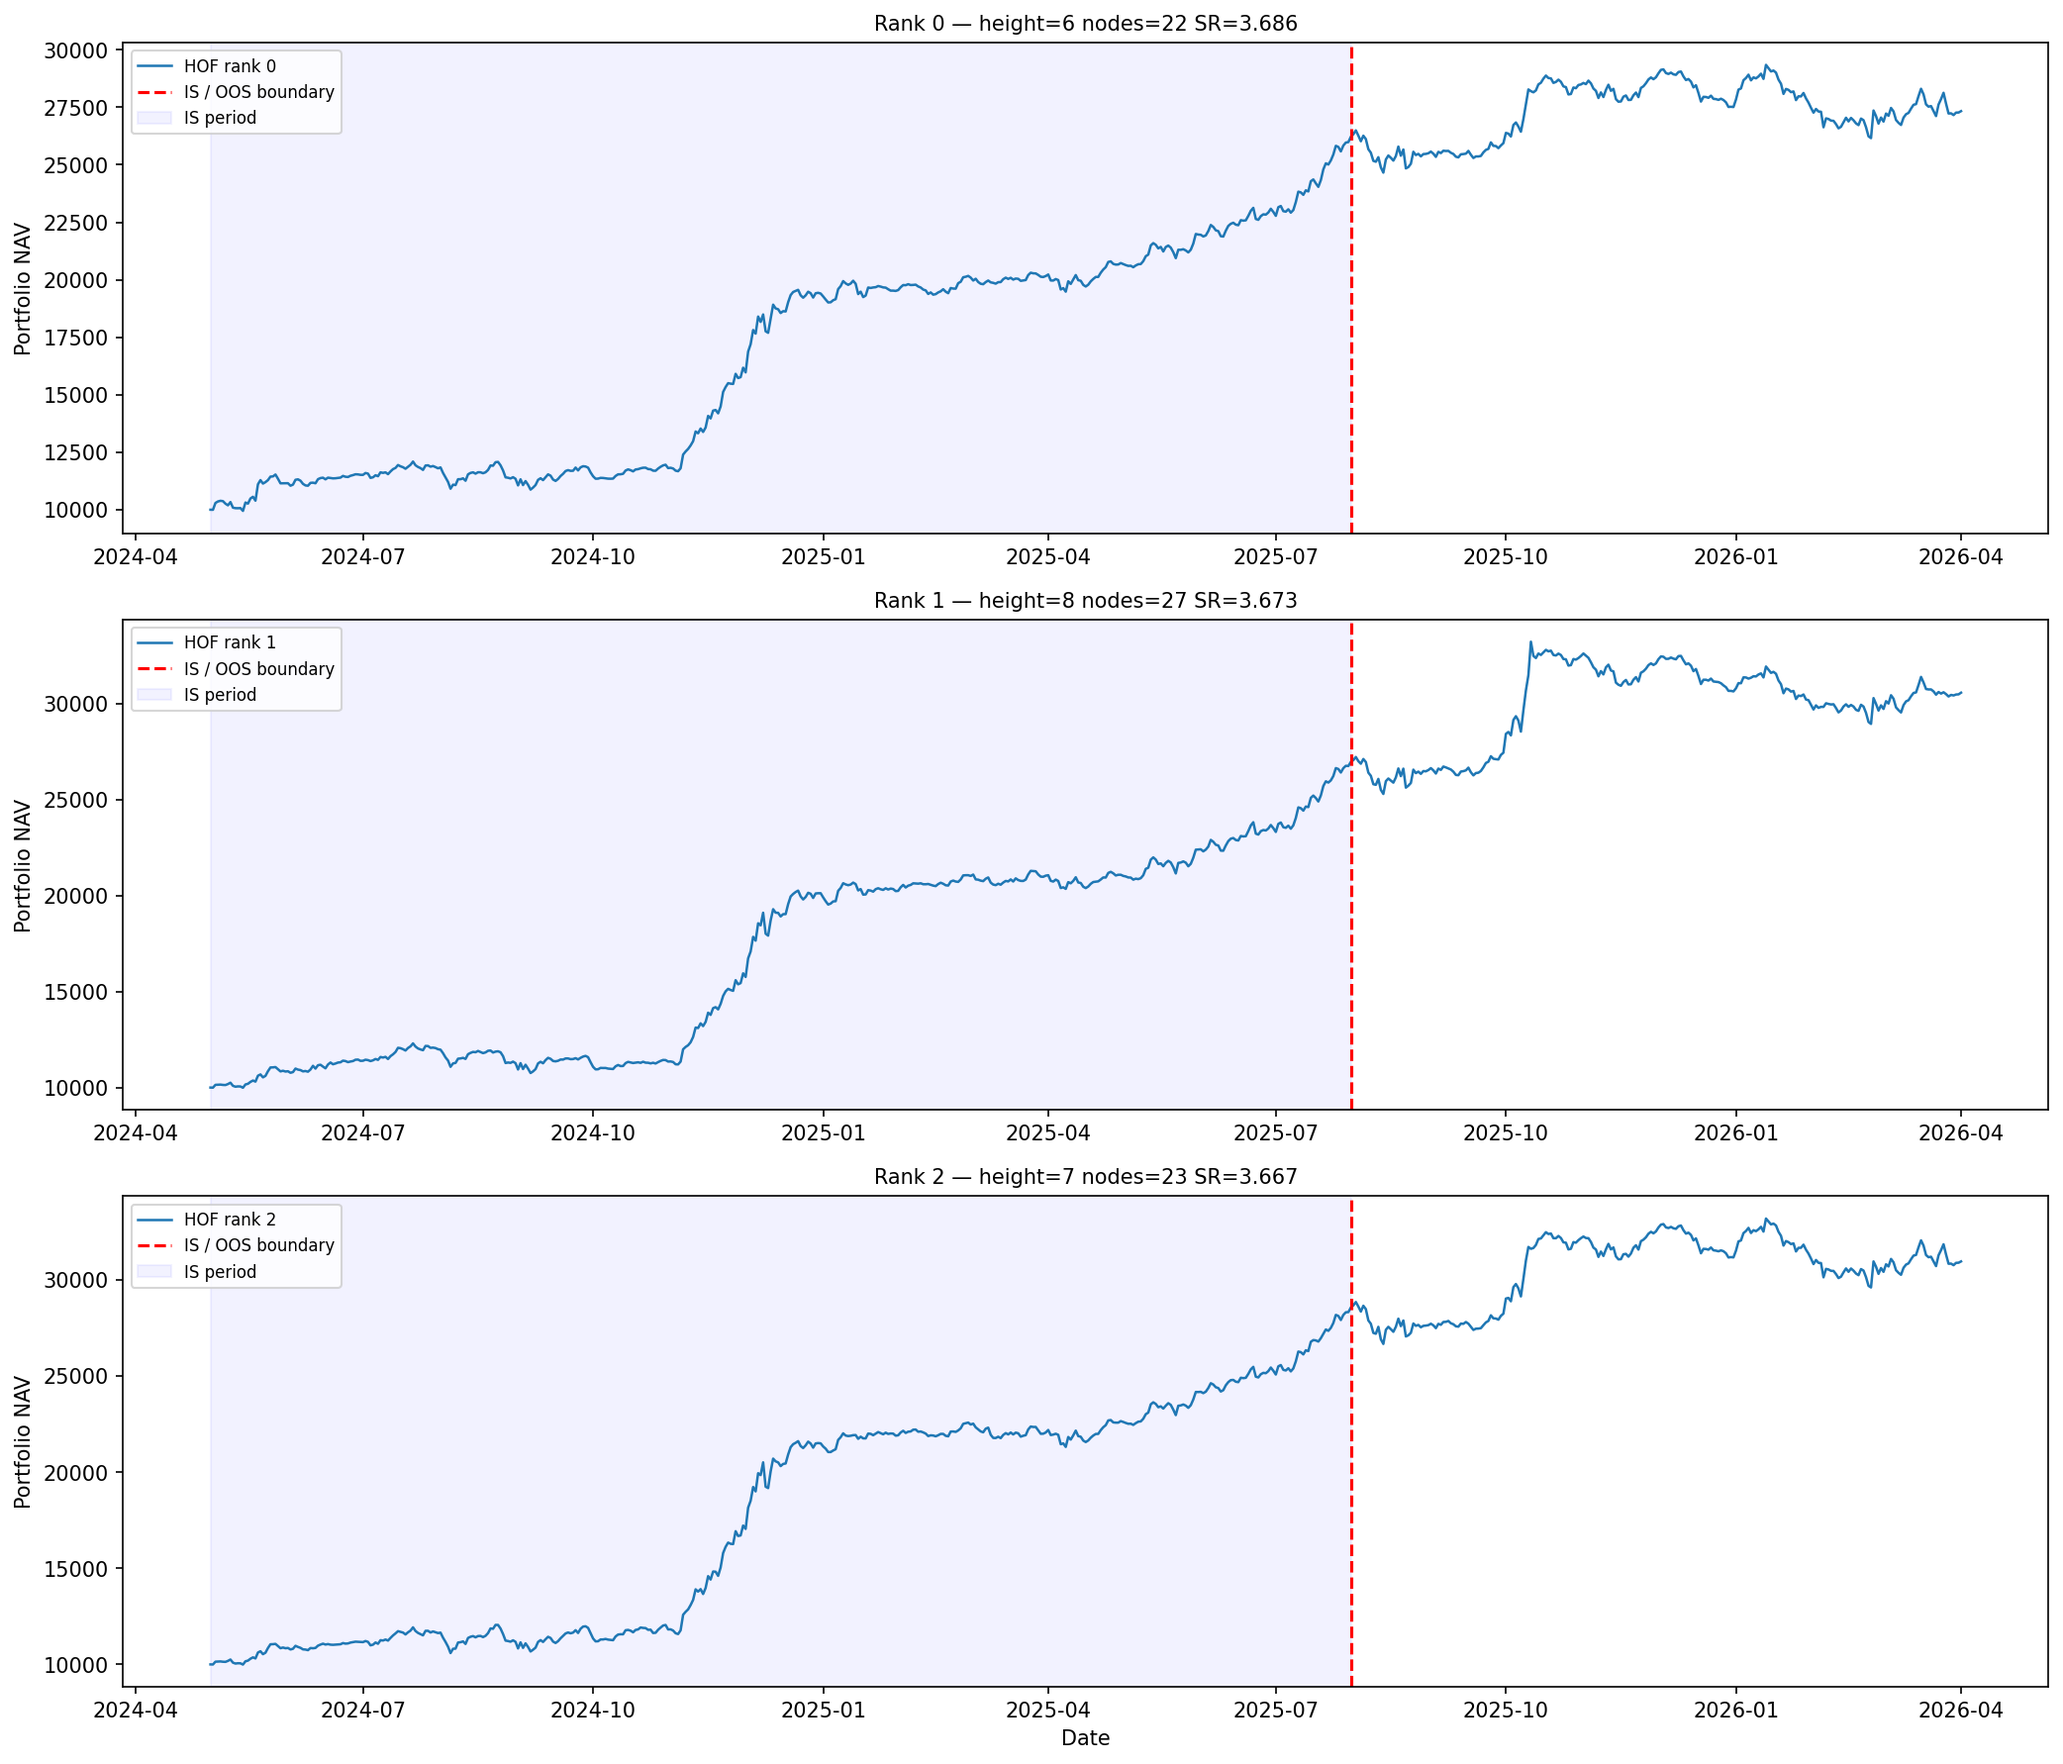
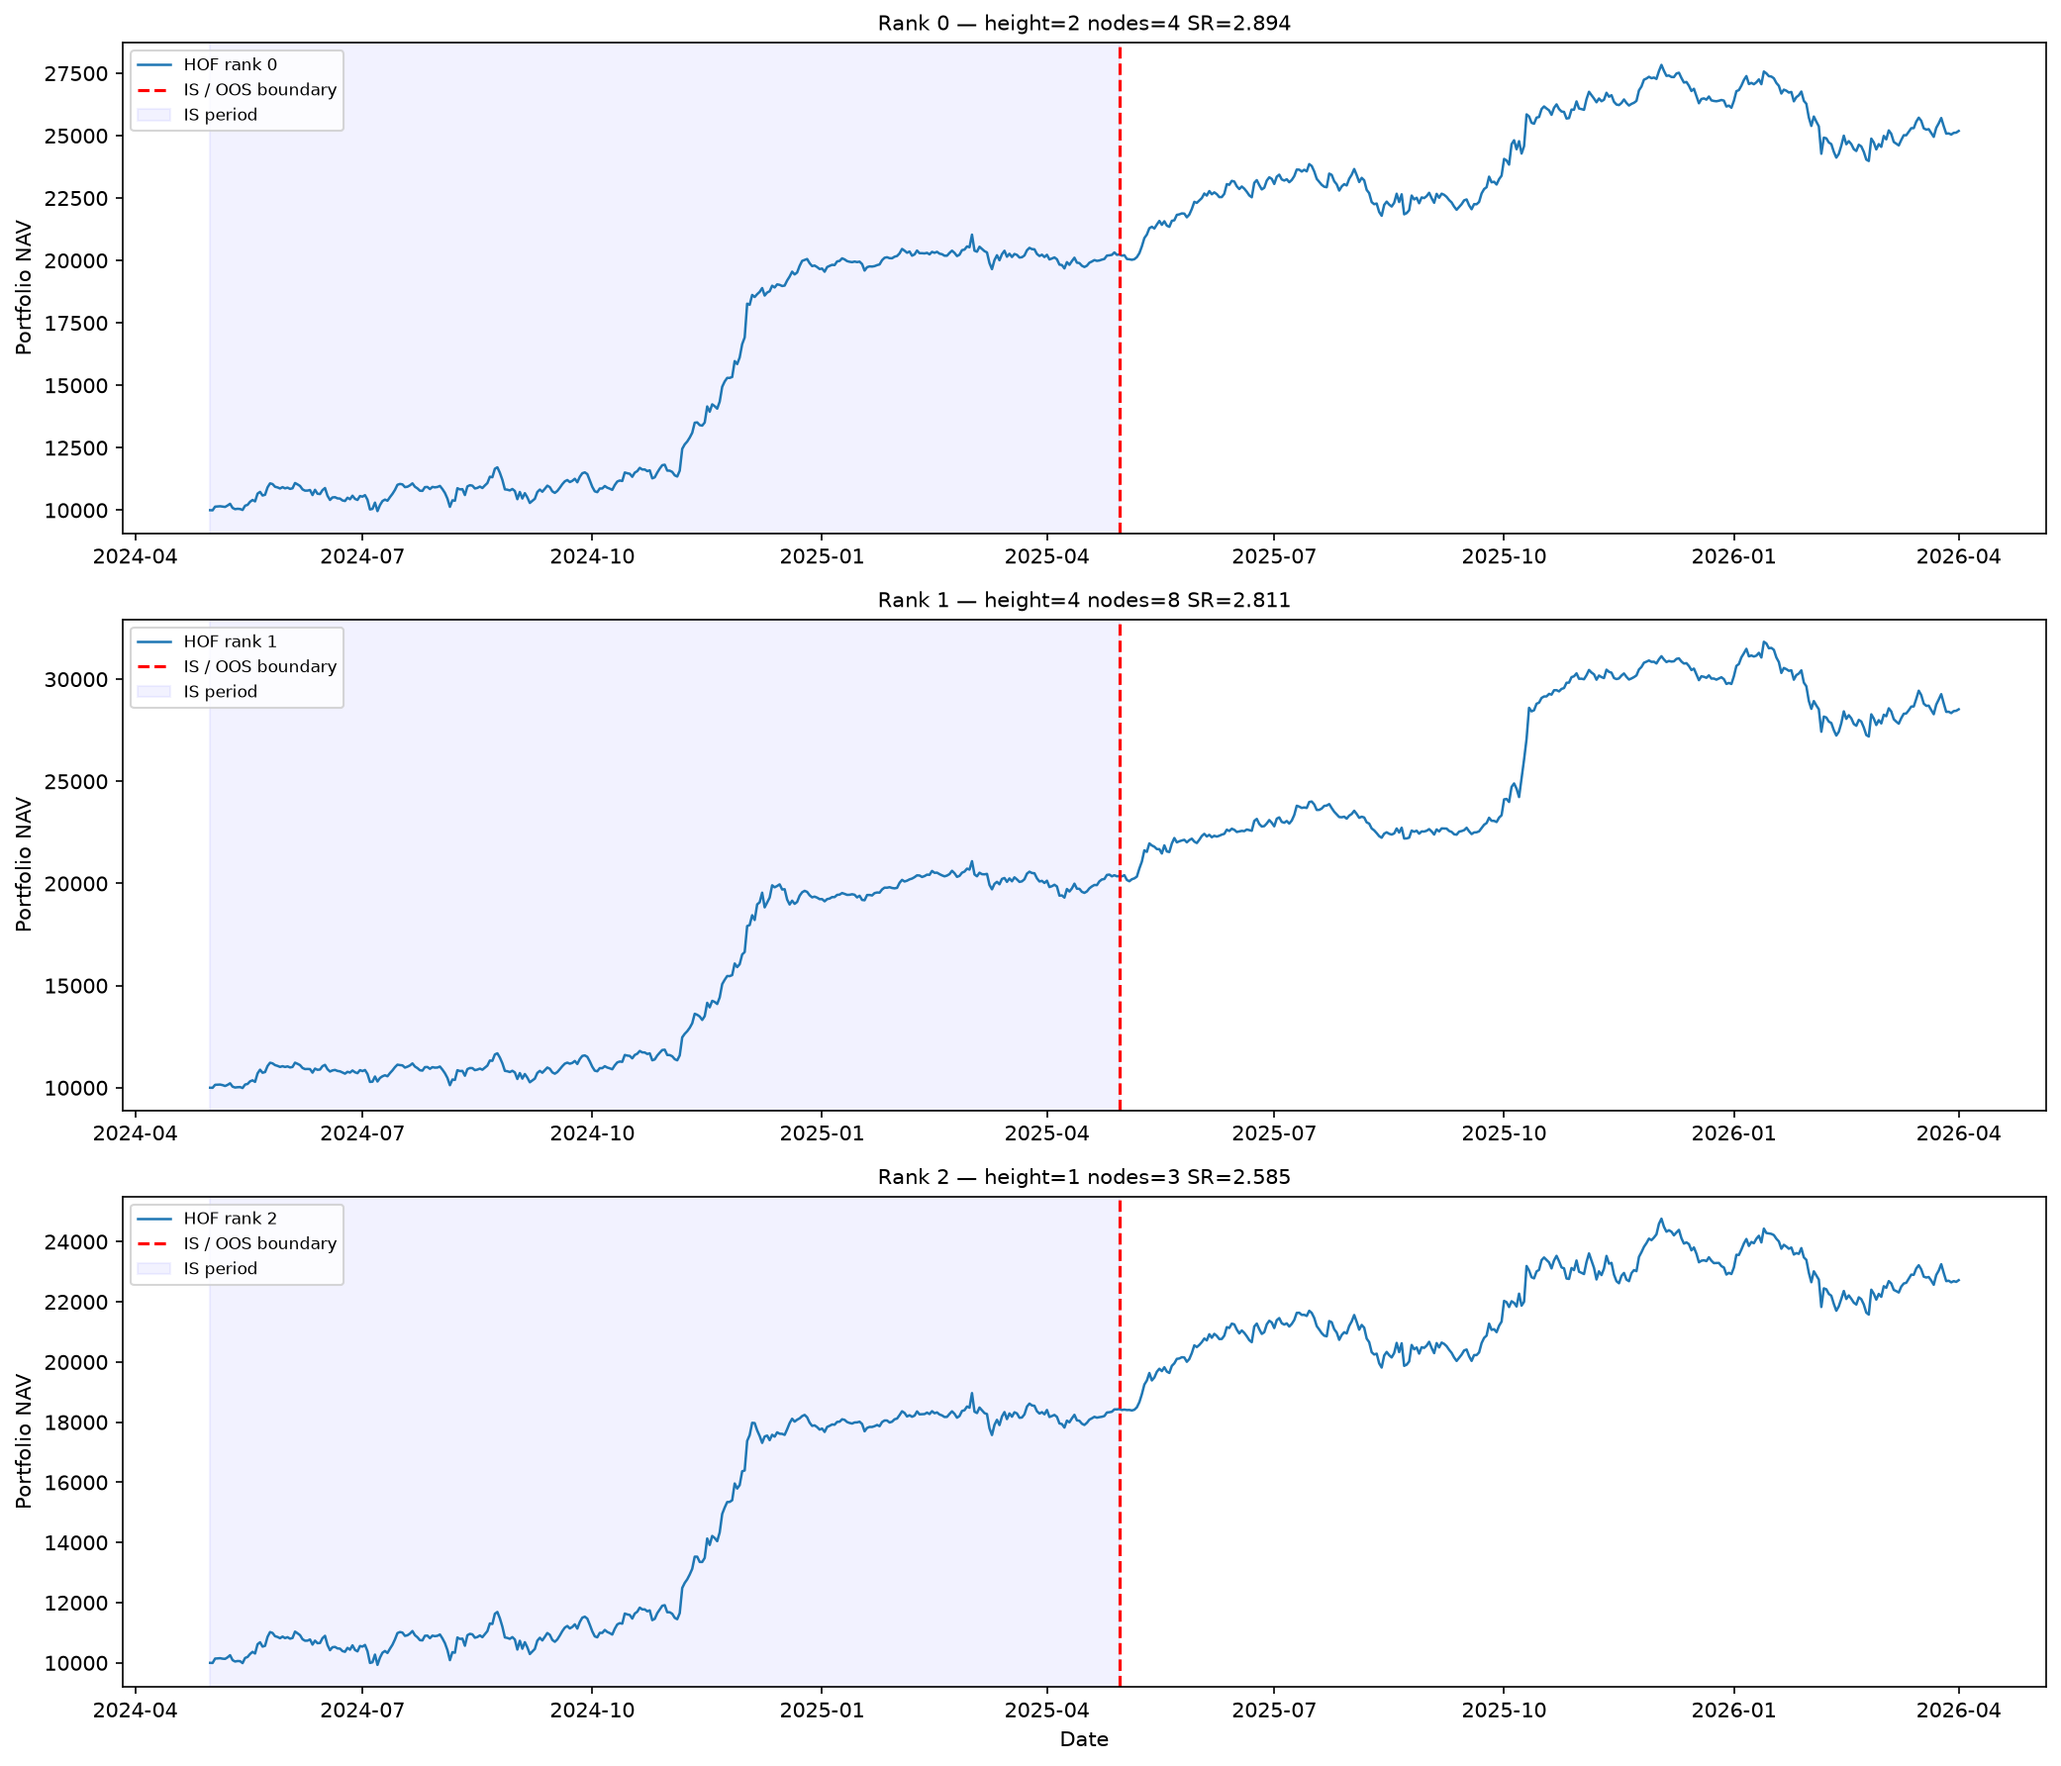
run(vgp): full pipeline on real Binance data — no evidence of skill
First end-to-end run on real data with every guard in place. The
result is an honest negative.

Data: Binance daily OHLCV 2024-01-01 to 2026-04-01, 21 of 30 declared
assets (3 unavailable at fetch, 6 below min_obs_fraction for listing
too late), 701 dates x 12 features x 21 assets, 3 non-overlapping
walk-forward windows, 3 seeds, 13,006 evaluations, 10 bps round-trip
costs inside evaluate().

VERDICT from the 19-run null control: every one of the 19 signal-free
surrogate runs found a HIGHER in-sample Sharpe than the real data
(null +4.00 to +5.93, observed +3.32), so p = 1.000. Out-of-sample the
observed best (+0.735) sits above the null median (-0.195) but inside
its spread, p = 0.200. An in-sample Sharpe of ~3 carries no information
about skill on this data: the identical search reliably does better on
block-bootstrapped surrogates of it.

The run also demonstrates, on real data, what the preceding commits
fixed.

DSR trial counting: sized to all 9,721 finite trials the best DSR is
0.0095 — a decisive rejection. Sized to the 9 reported winners it is
1.0000. Same data, same strategies; the multiple-testing convention is
the entire difference, and attach_dsr() warns that the two straddle
0.95.

Sentinel leak: window 2 recorded 55, 41 and 39 OOS trades against a
length-scaled threshold of 8. Under the previous unscaled 50-trade
filter two of those nine rows would have been written out as an OOS
Sharpe of -inf — the ranking sentinel reported as catastrophic
[…]

diff --git a/vector_genetic_programming/results/README.md b/vector_genetic_programming/results/README.md
@@ -1,53 +1,117 @@
 # results/
 
-## The committed artifacts are stale and must be regenerated
+Run date: 2026-09-09 · universe fingerprint `af8fe4ee067f` · reproduce with `make start`
 
-`results.csv` and the three PNGs in this directory were produced before two
-reporting bugs were fixed. **Do not cite these numbers.**
+## Verdict: no evidence of skill
 
-1. **`oos_sharpe = -inf` (rows W1s0, W2s0, W2s1, W2s2) is not performance.**
-   It is the worst-fitness ranking sentinel that `evaluate()` returns so NSGA-II
-   can order unusable individuals. It was recorded verbatim as an OOS Sharpe.
-   In every one of those rows the OOS trade filter tripped — the 50-trade
-   threshold written for a ~12-month training window was applied unchanged to a
-   3-month OOS window — so those runs were never measured at all. Any median or
-   IQR taken over that column is also meaningless.
+The search does not beat data with no signal. **Every one of the 19 signal-free
+surrogate runs found a higher in-sample Sharpe than the real data did**
+(null range +4.00 to +5.93, observed +3.32), giving an empirical p-value of
+1.000. Out-of-sample the observed best (+0.735) sits above the null median
+(−0.195) but inside its spread, p = 0.200 — unremarkable, and not significant
+at any conventional level.
 
-2. **The `dsr` column is identically zero by construction.** `E[SR_max]` was
-   computed without its `sigma_SR` scale factor, putting the significance
-   hurdle at roughly 24 annualized. No strategy clears that, so every row reads
-   between `1e-170` and `1e-286` regardless of what was evolved. The values
-   carry no information about the strategies.
+An in-sample Sharpe of ~3 therefore carries no information about skill here:
+the identical pipeline reliably produces *better* than that on block-
+bootstrapped surrogates of the same data. Read `null_control.txt` before
+quoting any number in `results.csv`.
 
-3. **The `dsr` column was sized to the wrong trial population.** N was the 9
-   reported winners rather than the thousands of individuals the GP actually
-   evaluated, which left the multiple-testing correction nearly inert — the
-   hurdle multiplier is 1.52 at N=9 against 3.24 at N=3600. On signal-free data
-   the winners-only convention certifies noise above DSR 0.95 while the
-   evaluation-based one rejects the same runs below 0.05.
+## What was run
 
-4. **No null control was run.** DSR cannot detect bias shared by every trial, so
-   nothing in that run rules out a lookahead, a reused training window or a
-   survivor-biased universe.
+| | |
+|---|---|
+| Data | Binance daily OHLCV, 2024-01-01 → 2026-04-01 |
+| Universe | 21 of 30 declared assets — see `universe.json` |
+| Panel | 701 dates × 12 features × 21 assets |
+| Windows | 3 walk-forward (12m train / 2m val / 3m OOS, non-overlapping) |
+| Search | pop 100 × 15 generations × 3 seeds = 13,006 evaluations |
+| Costs | 10 bps round-trip, inside `evaluate()` |
+| Null control | 19 runs × 1 seed, 20-bar blocks |
 
-5. **The universe was never recorded.** The fetcher silently dropped any asset
-   it could not retrieve, so there is no way to know how many assets those
-   numbers were computed on, or whether it was the same set across windows.
+The search is smaller than a publication run would use. It was sized from a
+measured throughput probe (~33 evaluations/second/core on this panel) so that
+the null control — which costs 19 further full experiments — could run at all.
+The null uses the *same* evolution config as the observed run, so the
+comparison is valid; scaling both up is the obvious next step, and would raise
+the DSR trial count and hurdle along with it.
 
-Regenerate with `make start` (or `python scripts/run.py`). The new schema adds
-`oos_status`, `oos_n_trades`, `oos_min_trades`, `dsr_bests_only`,
-`dsr_n_trials`, `dsr_trial_source`, `dsr_n_evaluations`, `dsr_trial_sr_std`,
-`n_evaluations`, `n_assets` and `universe_fingerprint`, and writes
-`null_control.txt` and `universe.json` alongside. `NaN` in a metric
-column means "not measured", never "bad result".
+## Reading the columns
 
-Read three numbers together, not one: the OOS Sharpe, the conservative `dsr`,
-and the null control p-value — and check the `universe_fingerprint` matches
-before comparing any two runs.
+`NaN` in a metric column means **not measured**, never "bad result". `oos_status`
+says why: `ok`, `below_min_trades`, or `nan_metrics`.
 
-## Note on the IS/OOS gap
+Two DSR columns are reported because the answer is an interval, and here the
+two conventions disagree completely:
 
-Separately from the bugs above, the stale run shows IS Sharpe 3.1–4.1 against
-OOS Sharpe 0.7–1.3 where OOS was measurable at all. That gap is a
-generalization result in its own right and is not addressed by fixing the
-reporting path — see the DSR and null-control sections of the top-level README.
+| | Trial set | Best value |
+|---|---|---|
+| `dsr` | all 9,721 finite trials of 13,006 evaluations | **0.0095** |
+| `dsr_bests_only` | the 9 reported winners | **1.0000** |
+
+Sizing the multiple-testing correction to the winners rather than to the search
+turns a decisive rejection into apparent certainty. `dsr` is the honest figure;
+`dsr_bests_only` is retained only to make the gap visible. `attach_dsr()` warns
+when the two straddle 0.95, as they do here.
+
+Note that even `dsr` — the conservative one — cannot detect bias shared across
+all trials. It is the null control, not the DSR, that produced the verdict above.
+
+## Per-window summary
+
+| Window | OOS period | Median OOS Sharpe | Seeds positive | Median `dsr` |
+|--------|------------|-------------------|----------------|--------------|
+| 0 | 2025-07-01 → 2025-09-30 | +0.472 | 3/3 | 0.005 |
+| 1 | 2025-10-01 → 2025-12-31 | +0.214 | 2/3 | 0.006 |
+| 2 | 2026-01-01 → 2026-03-31 | −1.570 | 0/3 | 0.001 |
+
+All nine rows were measurable. Worth noting for anyone comparing against older
+output: the OOS trade threshold is scaled to window length (38, 20, 8 for the
+three windows). Window 2's rows recorded 55, 41 and 39 OOS trades, so under the
+previous unscaled 50-trade filter **two of nine rows would have been written out
+as an OOS Sharpe of −inf** — the worst-fitness ranking sentinel reported as
+performance, which is what made the earlier committed results uninterpretable.
+
+## Universe
+
+21 of 30 assets. Three were lost at fetch (`HYPEUSDT`, `AEROUSDT`, `FLUIDUSDT` —
+not in the local cache and unreachable from this environment) and six more fell
+below `min_obs_fraction` for having listed too late in the sample (`MORPHO`,
+`POL`, `WLFI`, `SYRUP`, `ONDO`, `EUL`).
+
+The run declared this tolerance up front (`ALLOW_PARTIAL_UNIVERSE = True`,
+`MIN_ASSETS = 10`) rather than discovering it afterwards; without that the
+fetcher raises. **Compare `universe_fingerprint`, not asset counts, before
+comparing two runs** — results computed on different compositions are not
+comparable, and this is the one bias channel neither DSR nor the null control
+can see, since every trial and every surrogate inherits the same universe.
+
+`universe.json` records `universe_matches_observed: true` for the null runs:
+surrogates are bootstrapped from the same OHLCV and preserve each asset's index
+exactly, so `FeatureEngine` reaches the same retention decision.
+
+## Reproducing
+
+Daily OHLCV parquet files must be in `data_pipeline_example/cache/` as
+`{SYMBOL}_1d.parquet`. `*.parquet` is gitignored, so they are not committed
+here; this run used the Git LFS cache from the sibling `risk_premium_pca`
+project:
+
+```bash
+git lfs pull --include="risk_premium_pca/rp_pca/data/cache/*.parquet"
+cp risk_premium_pca/rp_pca/data/cache/*USDT_1d.parquet \
+   vector_genetic_programming/data_pipeline_example/cache/
+make start
+```
+
+Given a network path to Binance the fetcher populates the cache itself.
+
+## Artifacts
+
+| File | Contents |
+|------|----------|
+| `results.csv` | one row per (window, seed) — Sharpe, status, DSR both ways, trial counts, universe stamp |
+| `null_control.txt` | verdict, p-values, and the per-run null distribution |
+| `universe.json` | realized universe, what was lost at each stage, and why |
+| `pareto_front.png` | Pareto scatter for the best window |
+| `equity_curves.png` | IS/OOS equity curves, top 3 individuals |
+| `tree_graph.png` | GP tree of the best individual |

diff --git a/vector_genetic_programming/README.md b/vector_genetic_programming/README.md
@@ -100,6 +100,19 @@ The OOS trade threshold is scaled to the OOS window length (`oos_min_trades`, ov
 
 **OOS holdout:** The test split is defined before the first evolution run via `WalkForwardSplitter` and passed to `evaluate()` exactly once, for final reporting only. The evolution loop never sees OOS data. This is enforced structurally — `WalkForwardRunner` holds `test_fm` as a local variable and does not pass it to `run_evolution()`.
 
+## Current result
+
+The pipeline has been run end to end on Binance daily data (2024-01-01 →
+2026-04-01, 21 assets, 3 walk-forward windows, 13,006 evaluations) with a
+19-run null control. **It found no evidence of skill:** every signal-free
+surrogate run produced a higher in-sample Sharpe than the real data
+(p = 1.000), and out-of-sample sat inside the null distribution (p = 0.200).
+The conservative DSR is 0.0095. See `results/README.md` for the full record.
+
+That is a working framework reporting an honest negative, not a broken one. The
+same run also shows why the reporting path matters: sized to the reported
+winners instead of the search, DSR reads 1.0000 on the identical data.
+
 **Honest caveat:** Positive OOS Sharpe is the goal. Results depend on data availability, asset universe, and evolution configuration. VGP is a framework for reproducible research — it does not guarantee profitable strategies.
 
 A result here is only as good as three numbers read together: the OOS Sharpe, the conservative `dsr` against the full evaluation count, and the null control p-value. A high Sharpe with a high `dsr` and a null p-value of 0.7 means the pipeline found the same thing in noise.
